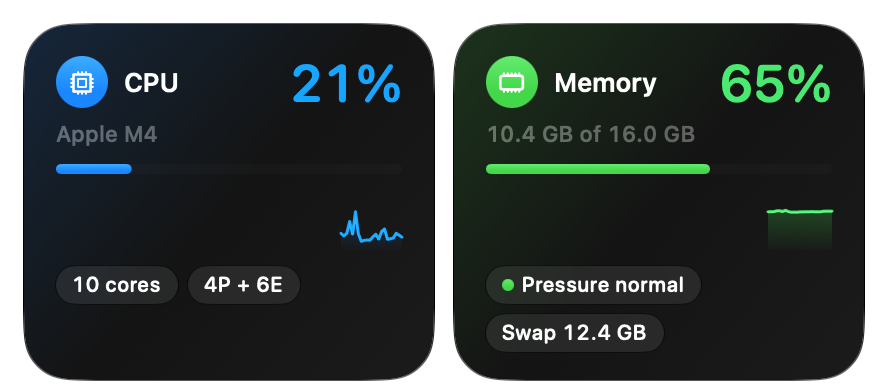
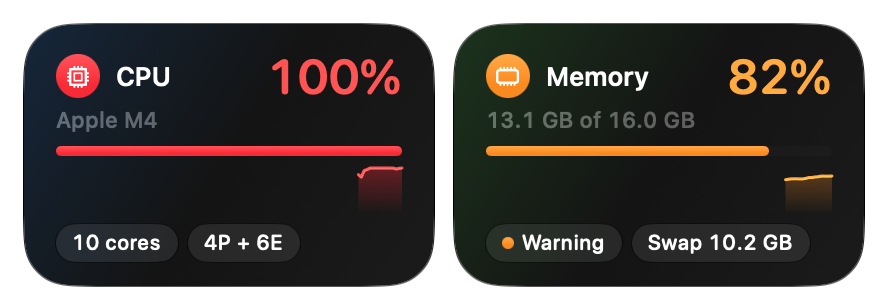
system: more compact CPU and memory cards (#67)
Smaller vertical padding and row gaps, a 22 pt history instead of 30 pt, a
smaller icon and figure, and the memory pressure pill reduced to its level
("Warning") so it shares one line with the swap pill. Card height on the
panel: 177 pt -> 130 pt. CardKit gains parameters whose defaults keep the
other cards unchanged.

Claude-Session: https://claude.ai/code/session_014QH2CJe8qy5L8b2baUWXGw

diff --git a/Sources/SohoMonitor/SystemCards.swift b/Sources/SohoMonitor/SystemCards.swift
@@ -1,6 +1,13 @@
 import SohoMonitorCore
 import SwiftUI
 
+/// Metrics of the compact CPU and memory cards: shorter than the other cards, same content.
+private enum Compact {
+    static let spacing: CGFloat = 6
+    static let padding = EdgeInsets(top: 12, leading: 16, bottom: 12, trailing: 16)
+    static let sparklineHeight: CGFloat = 22
+}
+
 /// The CPU card: total usage, chip name, core pills, thin bar and history.
 struct CPUCard: View {
     var status: MetricStatus<CPUUsage>
@@ -10,15 +17,17 @@ struct CPUCard: View {
     var body: some View {
         let usage: CPUUsage? = if case .value(let usage) = status { usage } else { nil }
         let tint = CardColor.tint(usage?.level ?? .normal, accent: CardColor.cpu)
-        GlassCard(accent: CardColor.cpu) {
+        GlassCard(accent: CardColor.cpu, spacing: Compact.spacing, padding: Compact.padding) {
             MetricHeader(
                 symbol: "cpu", title: "CPU", subtitle: info.name ?? " ", figure: PercentFormat.whole(usage?.total),
-                tint: tint
+                tint: tint, compact: true
             )
             .help(usage.map(Self.detail) ?? "")
             ThinBar(fraction: usage?.total, tint: tint)
             // No value now: no old history either, next to a dash.
-            Sparkline(values: usage == nil ? [] : history, capacity: SystemModel.historyCapacity, tint: tint)
+            Sparkline(
+                values: usage == nil ? [] : history, capacity: SystemModel.historyCapacity, tint: tint,
+                height: Compact.sparklineHeight)
             PillRow(pills: StatusPill.pills(for: status) + info.pills.map { InfoPill(text: $0) })
         }
     }
@@ -36,14 +45,16 @@ struct MemoryCard: View {
     var body: some View {
         let reading: MemoryReading? = if case .value(let reading) = status { reading } else { nil }
         let tint = CardColor.tint(reading?.level ?? .normal, accent: CardColor.memory)
-        GlassCard(accent: CardColor.memory) {
+        GlassCard(accent: CardColor.memory, spacing: Compact.spacing, padding: Compact.padding) {
             MetricHeader(
                 symbol: "memorychip", title: "Memory", subtitle: reading?.usedOfTotal ?? " ",
-                figure: PercentFormat.whole(reading?.usedFraction), tint: tint
+                figure: PercentFormat.whole(reading?.usedFraction), tint: tint, compact: true
             )
             .help(reading?.breakdown ?? "")
             ThinBar(fraction: reading?.usedFraction, tint: tint)
-            Sparkline(values: reading == nil ? [] : history, capacity: SystemModel.historyCapacity, tint: tint)
+            Sparkline(
+                values: reading == nil ? [] : history, capacity: SystemModel.historyCapacity, tint: tint,
+                height: Compact.sparklineHeight)
             PillRow(pills: StatusPill.pills(for: status) + Self.pills(reading))
         }
     }
@@ -52,7 +63,11 @@ struct MemoryCard: View {
         guard let reading else { return [] }
         var pills: [InfoPill] = []
         if let pressure = reading.pressure {
-            pills.append(InfoPill(text: pressure.label, tint: CardColor.tint(reading.level, accent: CardColor.memory)))
+            // The short label keeps the pressure and swap pills on one line; the dot's colour and the hover name it.
+            pills.append(
+                InfoPill(
+                    text: pressure.shortLabel, tint: CardColor.tint(reading.level, accent: CardColor.memory),
+                    help: "Memory \(pressure.label.lowercased())"))
         }
         if let swap = reading.swapText {
             pills.append(InfoPill(text: swap, help: reading.swap.map { "Swap file: \(MemoryFormat.short($0.total))" }))

diff --git a/Sources/SohoMonitor/CardKit.swift b/Sources/SohoMonitor/CardKit.swift
@@ -30,14 +30,18 @@ enum CardColor {
 struct GlassCard<Content: View>: View {
     var accent: Color
     var cornerRadius: CGFloat = 24
+    /// Gap between the card's rows; the compact CPU and memory cards use less.
+    var spacing: CGFloat = 8
+    /// Inner margin; the compact CPU and memory cards use less vertical room.
+    var padding = EdgeInsets(top: 14, leading: 16, bottom: 14, trailing: 16)
     @ViewBuilder var content: Content
 
     @Environment(\.accessibilityReduceTransparency) private var reduceTransparency
 
     var body: some View {
         let shape = RoundedRectangle(cornerRadius: cornerRadius, style: .continuous)
-        VStack(alignment: .leading, spacing: 8) { content }
-            .padding(EdgeInsets(top: 14, leading: 16, bottom: 14, trailing: 16))
+        VStack(alignment: .leading, spacing: spacing) { content }
+            .padding(padding)
             .frame(maxWidth: .infinity, maxHeight: .infinity, alignment: .topLeading)
             .background {
                 if reduceTransparency {
@@ -76,19 +80,21 @@ struct MetricHeader: View {
     var subtitle: String?
     var figure: String
     var tint: Color
+    /// A smaller icon and figure and a tighter subtitle gap, for the compact CPU and memory cards.
+    var compact = false
 
     var body: some View {
-        VStack(alignment: .leading, spacing: 4) {
+        VStack(alignment: .leading, spacing: compact ? 1 : 4) {
             HStack(alignment: .center, spacing: 8) {
                 Image(systemName: symbol)
-                    .font(.system(size: 12, weight: .semibold))
+                    .font(.system(size: compact ? 11 : 12, weight: .semibold))
                     .foregroundStyle(.white)
-                    .frame(width: 26, height: 26)
+                    .frame(width: compact ? 22 : 26, height: compact ? 22 : 26)
                     .background(tint.gradient, in: .circle)
                 Text(title).font(.system(size: 13, weight: .semibold)).lineLimit(1)
                 Spacer(minLength: 4)
                 Text(figure)
-                    .font(.system(size: 26, weight: .semibold, design: .rounded))
+                    .font(.system(size: compact ? 24 : 26, weight: .semibold, design: .rounded))
                     .monospacedDigit()
                     .foregroundStyle(tint)
                     .contentTransition(.numericText())
@@ -163,6 +169,8 @@ struct Sparkline: View {
     /// Points the full width stands for, so the line grows from the right while the history fills up.
     var capacity: Int
     var tint: Color
+    /// Drawing height; the compact CPU and memory cards use a shorter one.
+    var height: CGFloat = 30
 
     var body: some View {
         let heights = SparklineScale.normalized(values, domain: domain)
@@ -193,7 +201,7 @@ struct Sparkline: View {
                 .stroke(.primary.opacity(0.12), lineWidth: 1)
             }
         }
-        .frame(height: 30)
+        .frame(height: height)
         .accessibilityHidden(true)
     }
 }

diff --git a/Sources/SohoMonitorCore/System/Memory.swift b/Sources/SohoMonitorCore/System/Memory.swift
@@ -60,12 +60,22 @@ public enum MemoryPressure: Sendable, Equatable {
         }
     }
 
-    /// Text of the pressure pill.
+    /// Text of the pressure pill in the full layout; hover text of the compact one.
     public var label: String {
         switch self {
         case .normal: "Pressure normal"
         case .warning: "Pressure warning"
         case .critical: "Pressure critical"
+        }
+    }
+
+    /// Text of the pill in the compact memory card, where the long label and the swap pill do not fit on one line;
+    /// the long label stays in the pill's hover text.
+    public var shortLabel: String {
+        switch self {
+        case .normal: "Normal"
+        case .warning: "Warning"
+        case .critical: "Critical"
         }
     }
 }

diff --git a/Tests/SohoMonitorCoreTests/MemoryTests.swift b/Tests/SohoMonitorCoreTests/MemoryTests.swift
@@ -86,6 +86,12 @@ enum MemoryFixtures {
         #expect(MemoryPressure.critical.label == "Pressure critical")
     }
 
+    @Test func shortLabelsFitTheCompactPill() {
+        #expect(MemoryPressure.normal.shortLabel == "Normal")
+        #expect(MemoryPressure.warning.shortLabel == "Warning")
+        #expect(MemoryPressure.critical.shortLabel == "Critical")
+    }
+
     @Test func criticalStaysUntilNormal() {
         var tracker = MemoryPressureTracker(initial: nil)
         #expect(tracker.level == nil)

diff --git a/README.md b/README.md
@@ -113,9 +113,10 @@ Two glass cards above the disk card on the desktop panel:
   needs two samples.
 - **Memory**: used share and "used of total" (used = app + wired + compressed, the Activity Monitor-like split of
   `host_statistics64`; cached files and purgeable memory are not counted as used), breakdown on hover, memory
-  pressure pill (event driven: `DispatchSource` memory-pressure source, seeded by
-  `kern.memorystatus_vm_pressure_level`), swap used (`vm.swapusage`). Sizes in binary units (16 GB = 16 GiB). The
-  bar turns orange / red with the pressure level, or above 85 % / 95 % used when the pressure is unknown.
+  pressure pill ("Normal" / "Warning" / "Critical", with a coloured dot; event driven: `DispatchSource`
+  memory-pressure source, seeded by `kern.memorystatus_vm_pressure_level`), swap used (`vm.swapusage`). Sizes in
+  binary units (16 GB = 16 GiB). The bar turns orange / red with the pressure level, or above 85 % / 95 % used when
+  the pressure is unknown.
 - **Sampling**: once per second, and only while the panel is on screen: hidden, or fully covered by windows
   (`NSWindow` occlusion state), nothing is sampled. After the Mac wakes, the first CPU sample is dropped rather than averaged over the sleep. A
   metric that cannot be read shows a dash and the reason in a red pill, never a fake 0 %.
